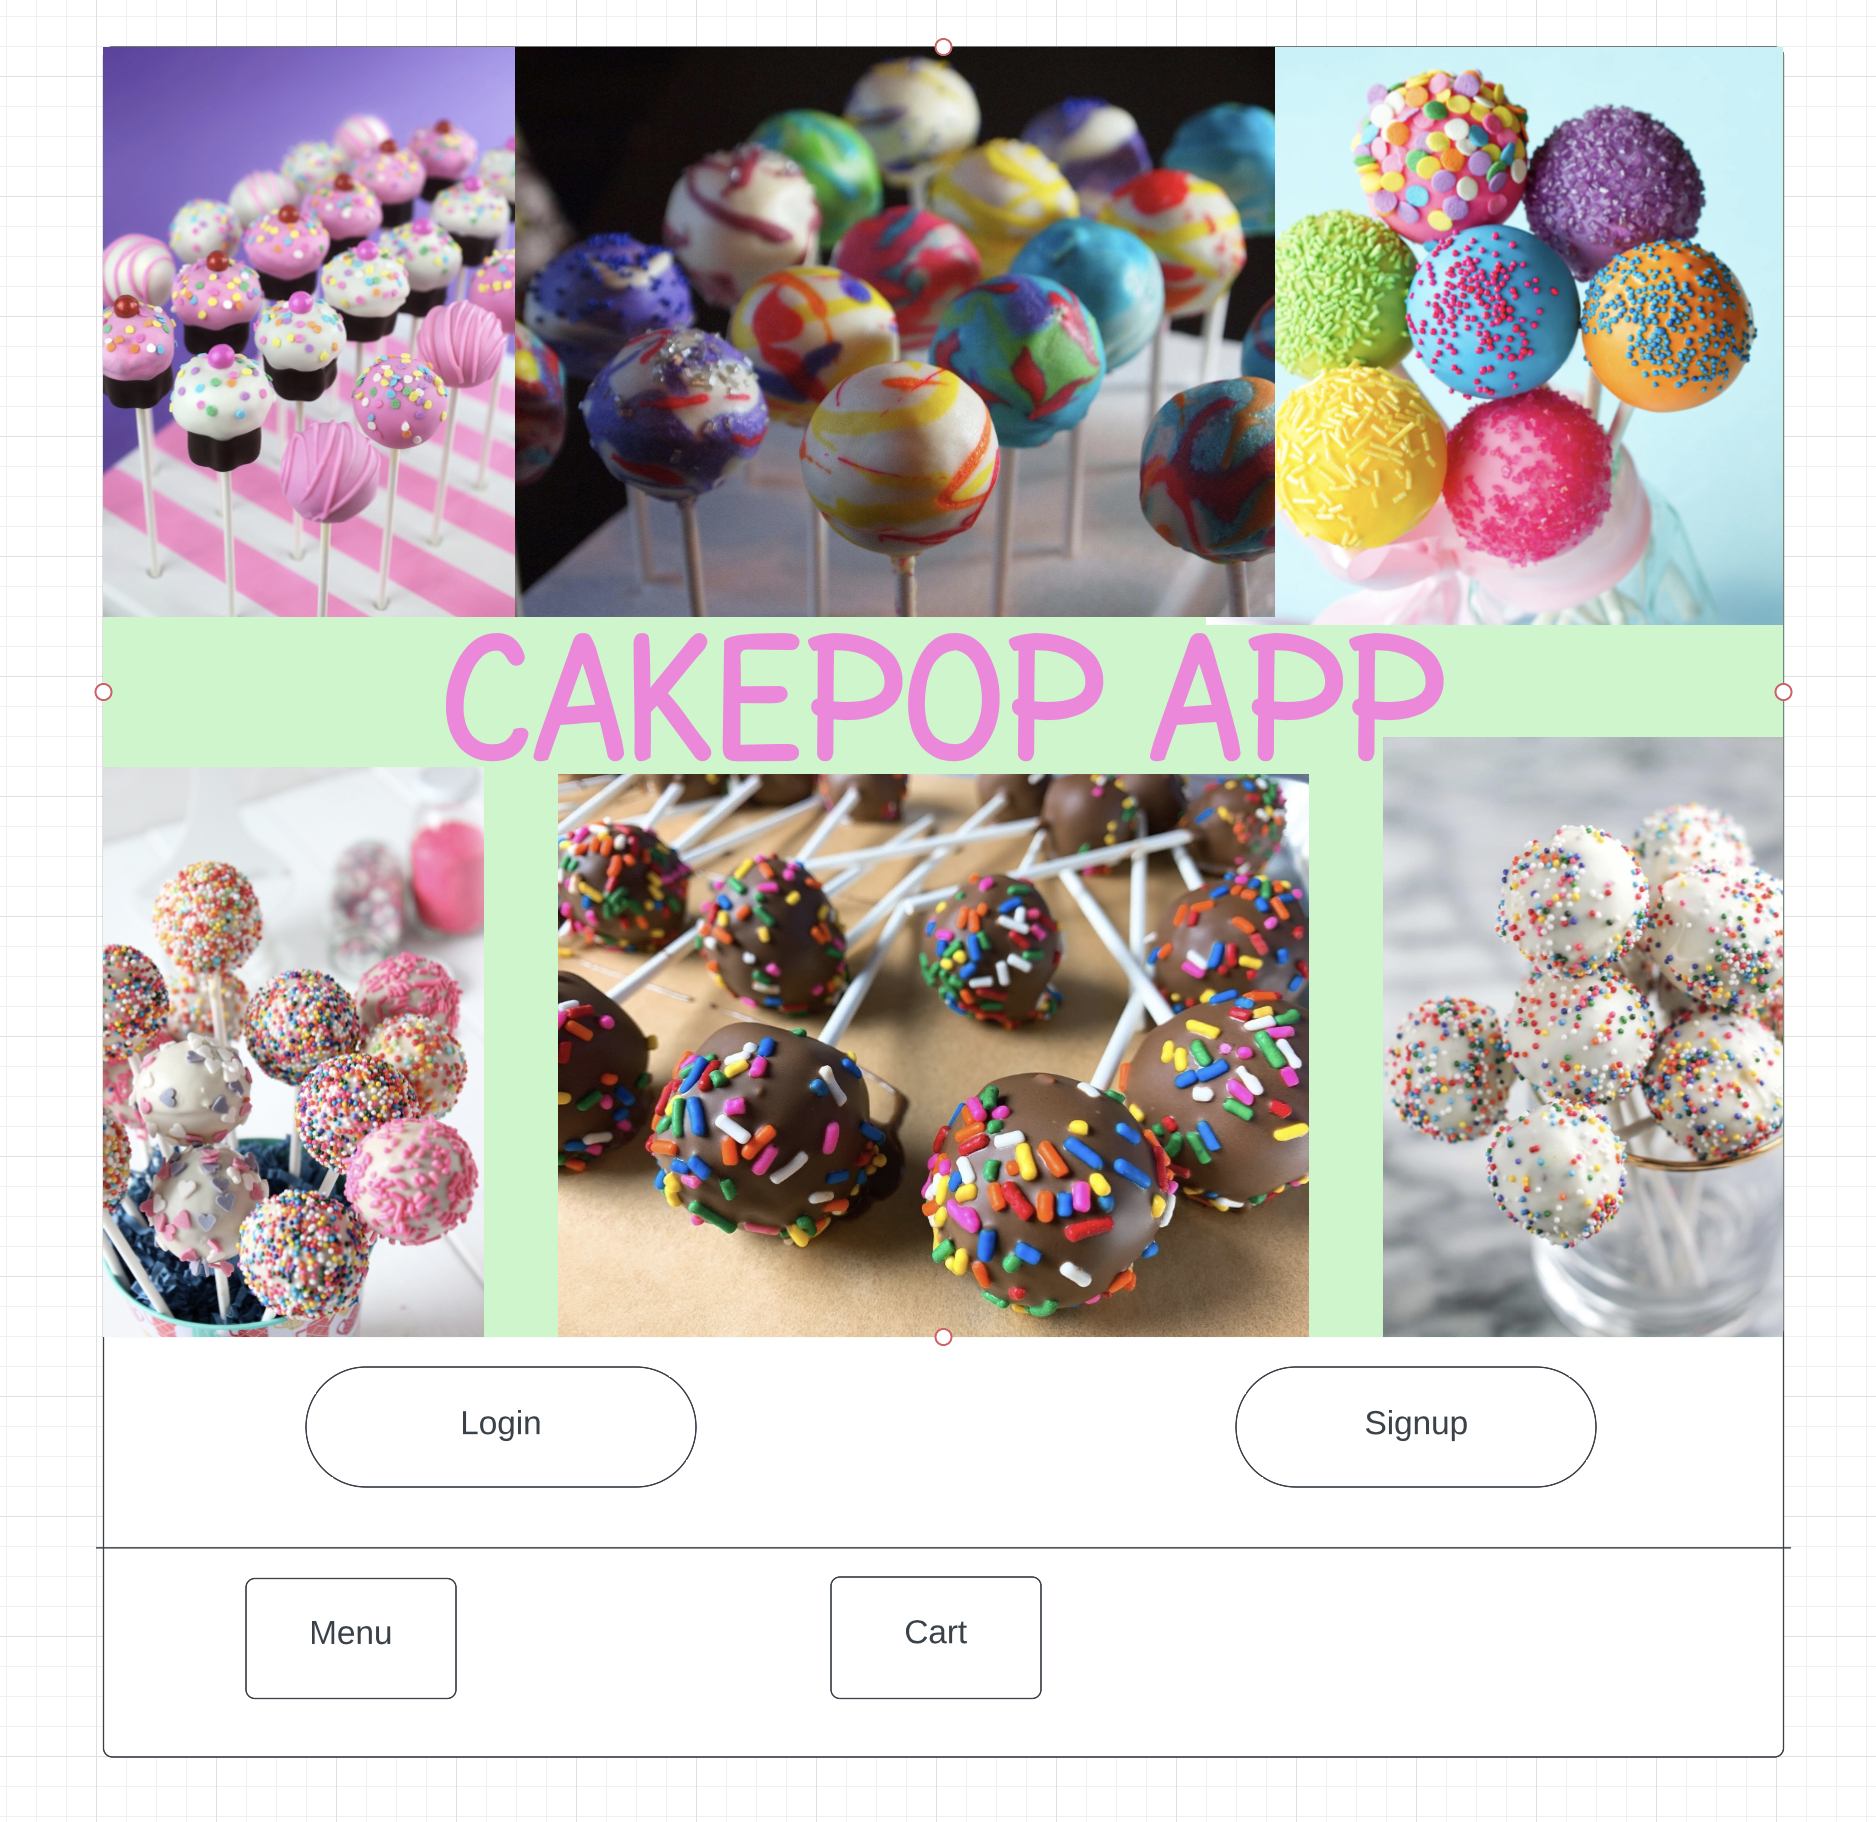
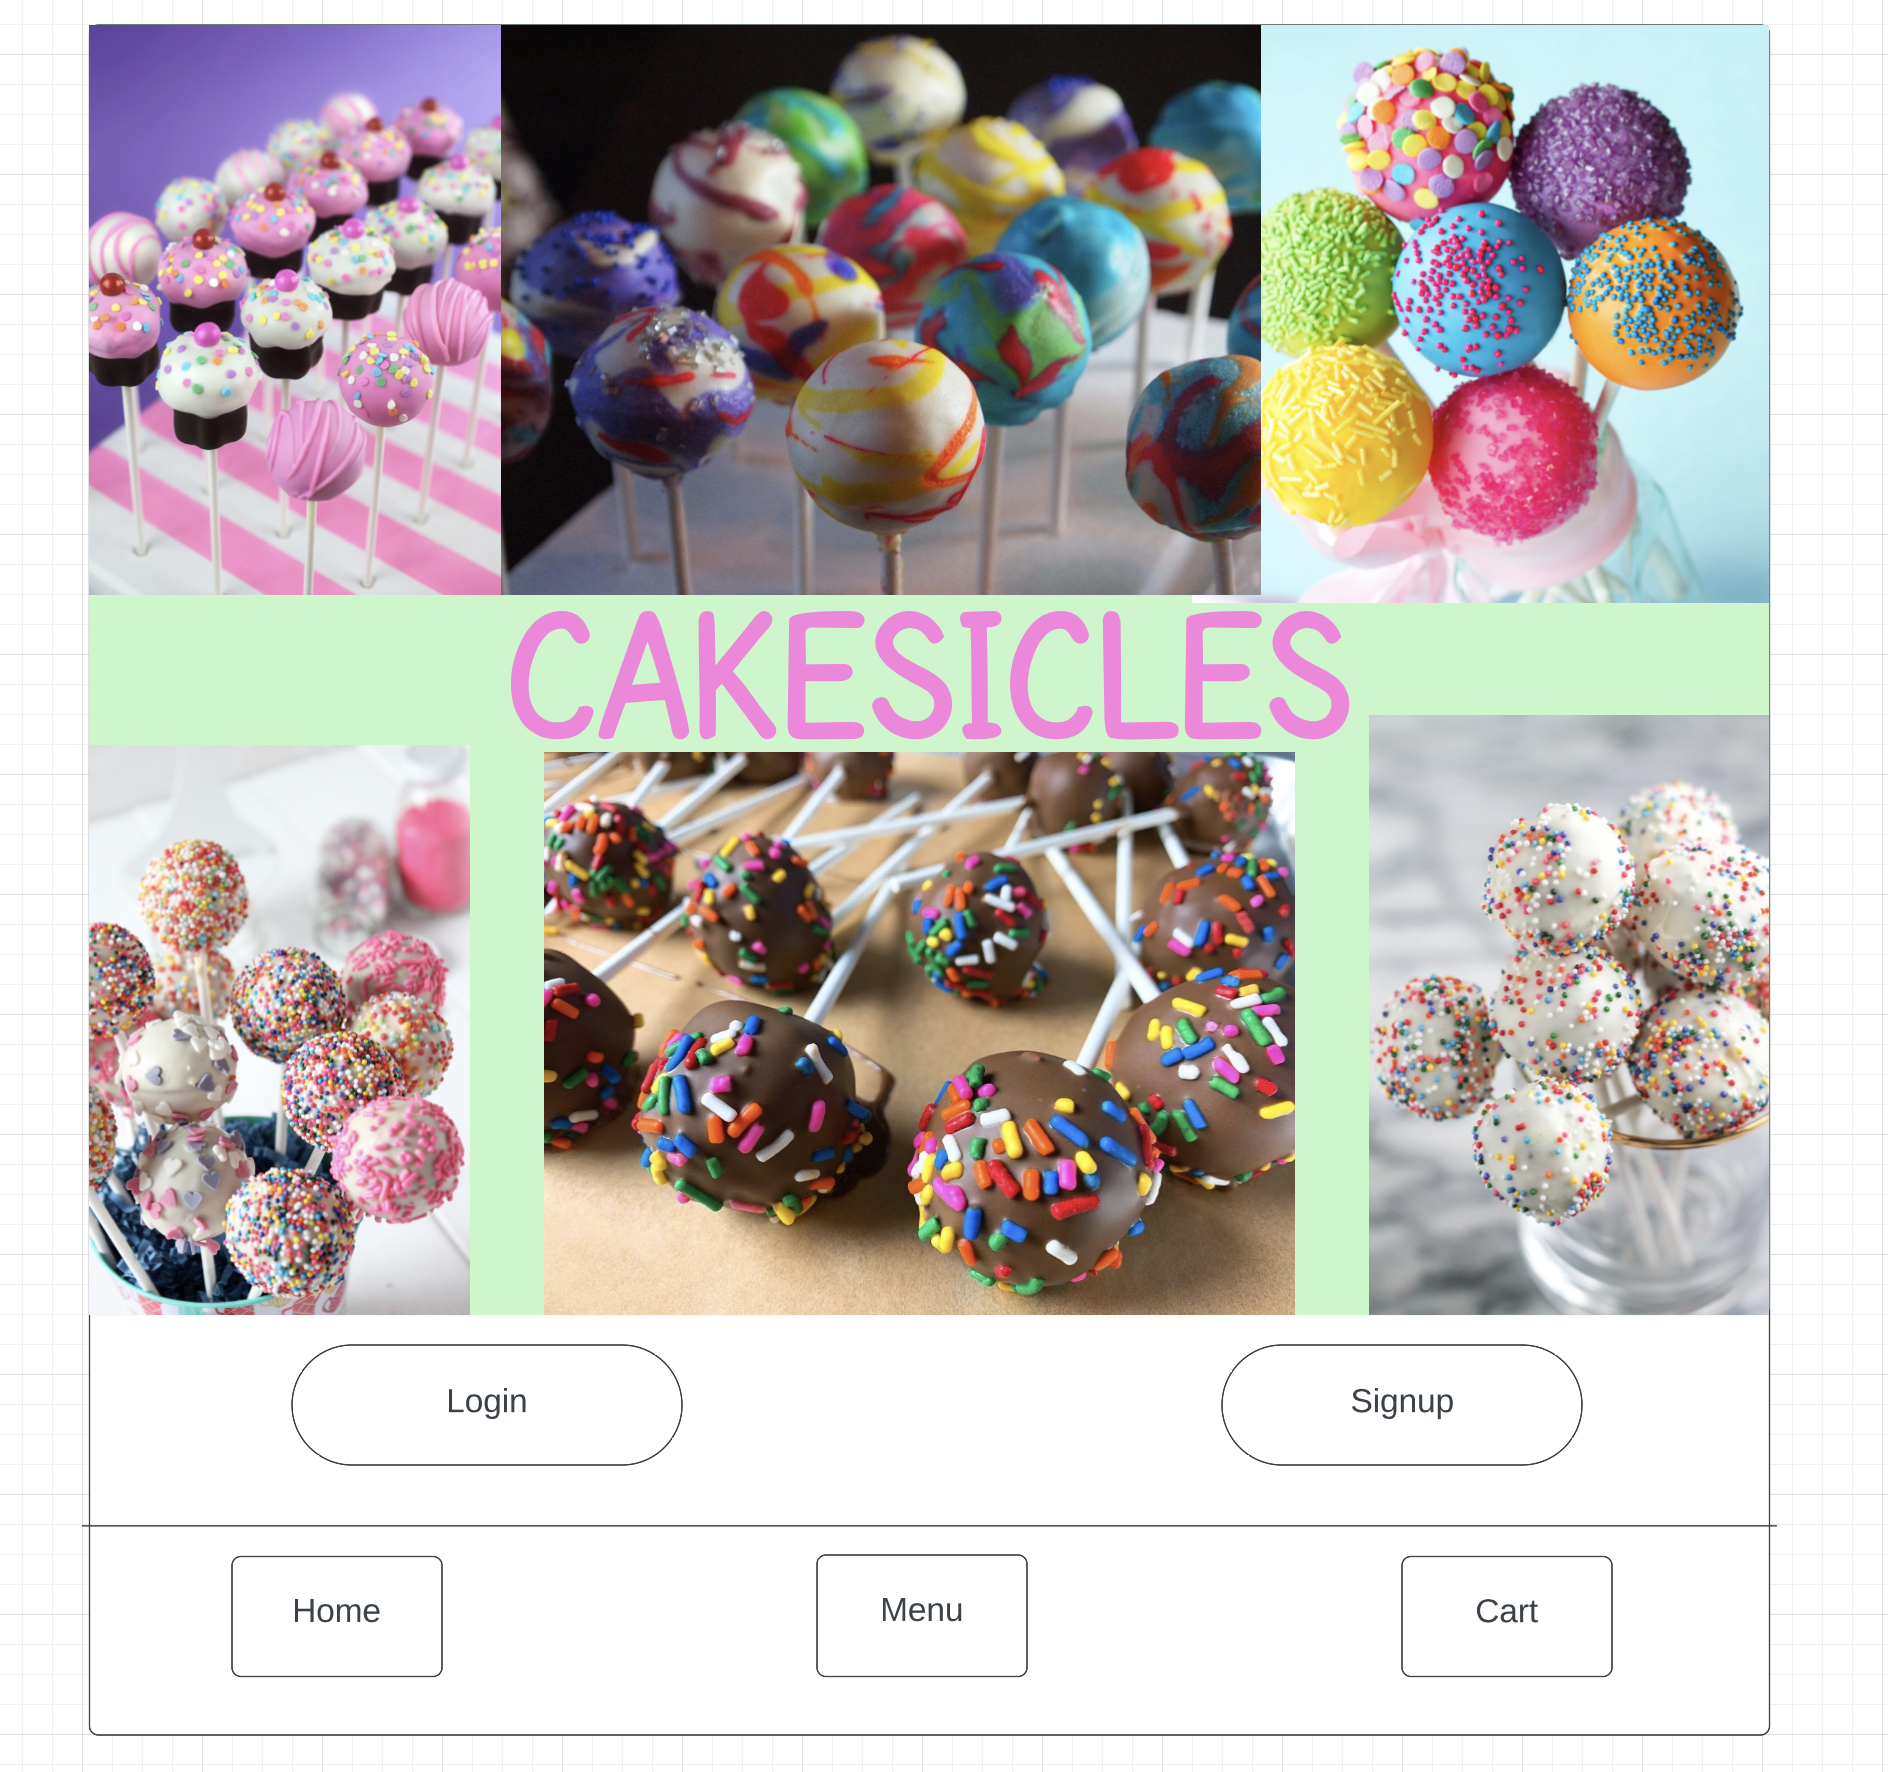
add home.ejs

diff --git a/server.js b/server.js
@@ -3,7 +3,22 @@ const app = express();
 const PORT = 3000;
 const expressLayouts = require("express-ejs-layouts");
 
+app.set("view engine", "ejs");
 
+//middlewares
+app.use(express.static("public"));
+app.use(expressLayouts);
+
+
+
+app.use(express.urlencoded({ extended: true }));
+app.use(express.json());
+
+//app.use(authRoutes);
+
+app.get("/", (req, res) => {
+    res.render("home.ejs");
+});
 
 
 
